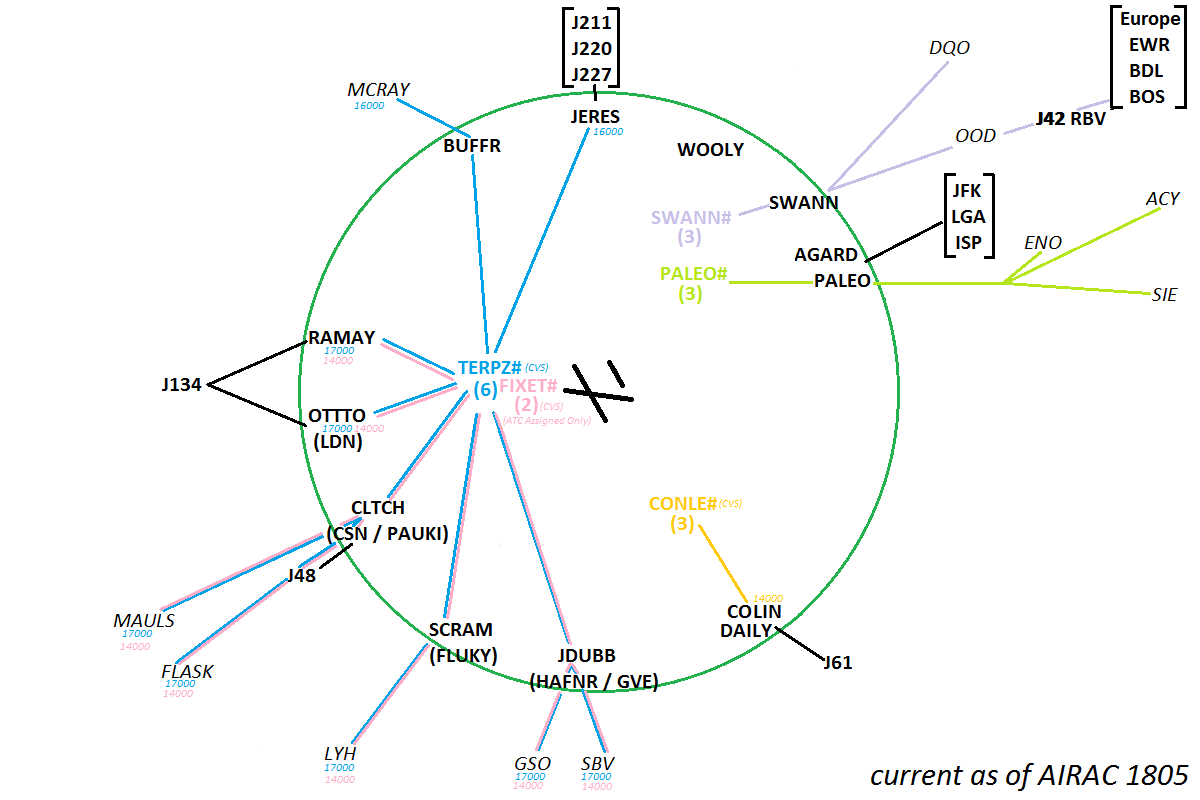
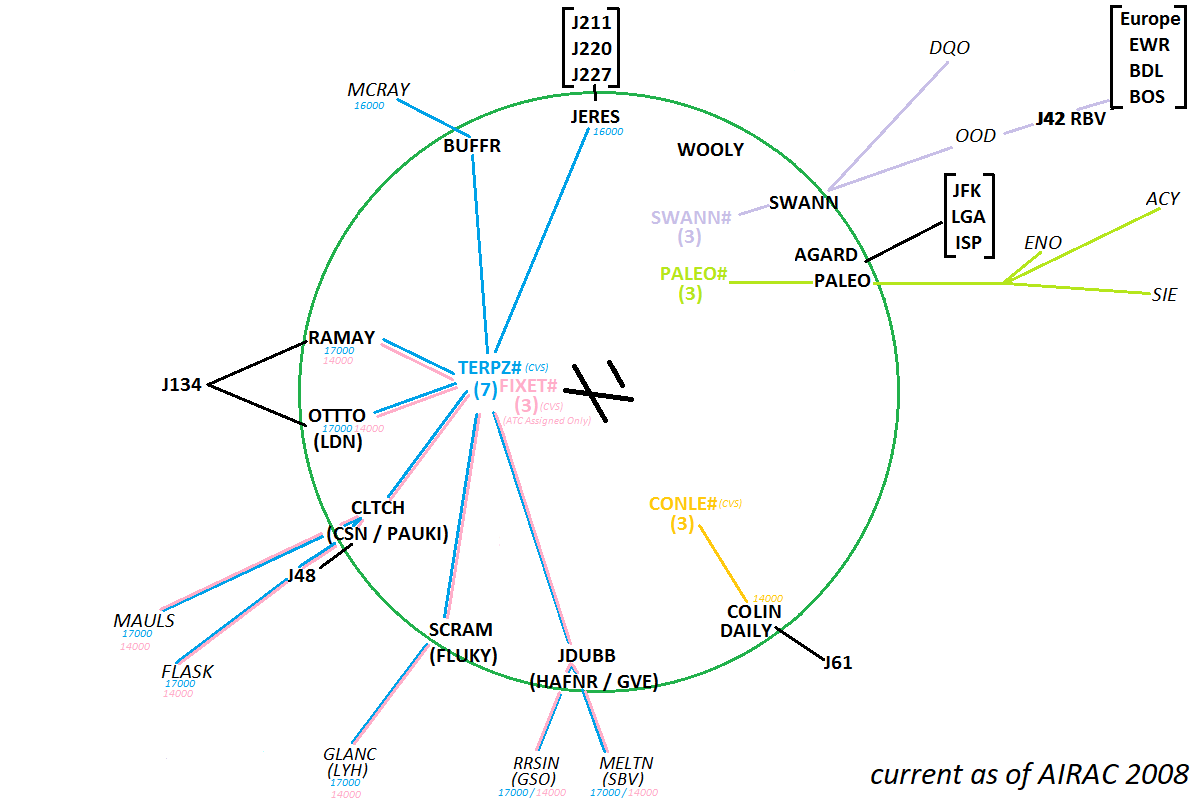
Add files via upload
added Cirrus aircraft type, added several airlines, updated BWI RNAV departure diagram, updated main menu to include signon and signoff

diff --git a/public/ZDC_quickreference/mainmenu.html b/public/ZDC_quickreference/mainmenu.html
@@ -15,6 +15,8 @@
 
 <h3>ZDC-WIDE INFORMATION</h3>
 <ul>
+<li><a href="signon.html" target="right">Sign-On Checklist</a></li>
+<li><a href="signoff.html" target="right">Sign-Off Checklist</a></li>
 <li><a href="zdcfrequencies.html" target="right">Positions and Frequencies</a></li>
 <li><a href="routerestrictions.html" target="right">Special Route Restrictions</a></li>
 <li><a href="robspdc.html" target="right">"Rob's PDC" Command Reference</a></li>
@@ -35,15 +37,10 @@
 <li><a href="krdu-menu.html" target="lowerleft">KRDU / RALEIGH</a></li>
 <li><a href="korf-menu.html" target="lowerleft">KORF / NORFOLK</a></li>
 </ul>
+
 <br>
 <br>
-<i><a href="https://www.vzdc.org/dashboard" target="_top">Return to VZDC Controller Dashbaord</a></i>
-<br>
-<br>
-<br>
-<b>**Special Thanks to Rob Shearman Jr. for his donation on this quick reference resource guide** </b><br>
-<br>
-<i>Last Updated: 6/4/2020</i>
+<i><a href="https://www.vzdc.org/dashboard" target="_top">Return to VZDC Contrller Dashboard</a></i>
 
 </font>
 </body>

diff --git a/public/ZDC_quickreference/airlines.html b/public/ZDC_quickreference/airlines.html
@@ -30,9 +30,9 @@ AAH Aloha
 <br>CKE Connie
 <br>CLX CargoLux
 <br>CMB Camber
-<br>COA Continental
 <br>CPA Cathay
 <br>CXA Canadian Express
+<br>COA Continental
 <br>DAL Delta
 <br>DCM Dot Com
 <br>DHL DHL
@@ -48,6 +48,7 @@ AAH Aloha
 <br>FDX FedEx
 <br>FDY Friendly
 <br>FFT Frontier Flight
+<br>GEC Lufthansa Cargo
 <br>GJS Lindbergh
 <br>GLD Gold
 <br>GTI Giant
@@ -60,9 +61,12 @@ AAH Aloha
 <br>JZA Jazz
 <br>KAL Korean Air
 <br>KAP Cape Air
+<br>KFS Kalitta
 <br>KLM KLM
+<br>KMY Camilla
 <br>LOF Waterski
 <br>LXJ FlexJet
+<br>LYM Key Lime
 <br>NKS Spirit Wings
 <br>NWA Northwest
 <br>PAA Clipper
@@ -74,7 +78,7 @@ AAH Aloha
 <br>PRD Presidential
 <br>PSV Power
 <br>PXC Porkbelly
-<br>PXE Red Tape  
+<br>PXE Red Tape
 <br>QFA Qantas
 <br>QTR Qatari
 <br>RPA Brickyard
@@ -83,7 +87,9 @@ AAH Aloha
 <br>SCX Sun Country
 <br>SKW Skywest
 <br>SHT Shuttle
+<br>SOA Solaris
 <br>SWA Southwest
+<br>SWQ Swift Flight
 <br>TAP Air Portugal
 <br>THY Turkish
 <br>TRA Transavia

diff --git a/public/ZDC_quickreference/aircraft.html b/public/ZDC_quickreference/aircraft.html
@@ -100,6 +100,7 @@ A124 Antonov
 <br>BE60 Duke
 <br>BE76 Duchess
 <br>BE90 King Air
+<br>B350 King Air
 <br>
 <br>C152 Cessna
 <br>C170 Cessna
@@ -118,11 +119,14 @@ A124 Antonov
 <br>C650 Citation
 <br>C680 Citation
 <br>C750 Citation
+<br>C77R Cardinal
 <br>
 <br>CL30 Challenger
 <br>CL60 Challenger
 <br>
 <br>CONC Concorde
+<br>
+<br>CORS Corsair
 <br>
 <br>DA42 Diamond
 <br>DA62 Diamond
@@ -137,6 +141,8 @@ A124 Antonov
 <br>DHC2 Beaver
 <br>DHC3 Otter
 <br>DHC6 Twin Otter
+<br>
+<br>EA50 Eclipse
 <br>
 <br>E110 Embraer
 <br>E120 Embraer
@@ -204,6 +210,8 @@ A124 Antonov
 <br>SF34 Saab
 <br>
 <br>SF50 Vision Jet
+<br>
+<br>SR22 Cirrus
 <br>
 <br>T134 Tupolev
 <br>T144 Tupolev
